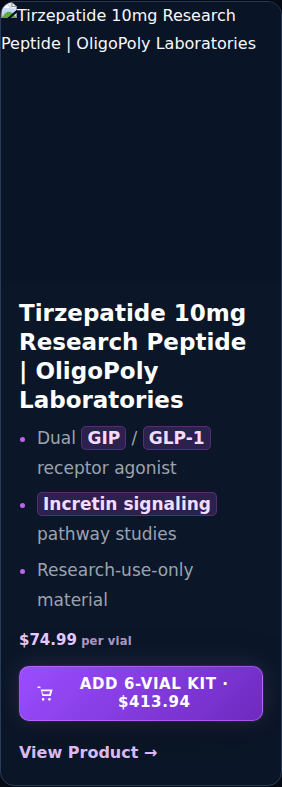
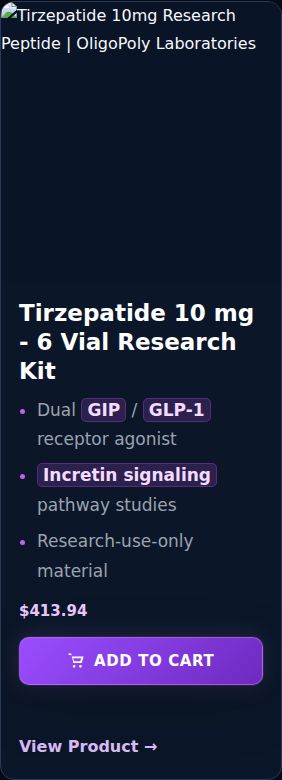
Feature purchasable kits in the homepage grid

diff --git a/wordpress/product-cart-buttons.test.php b/wordpress/product-cart-buttons.test.php
@@ -49,6 +49,10 @@ $PRODUCTS = array(
 	3454 => array( 'Tirzepatide 10 mg - 6 Vial Research Kit', 'tirzepatide-10-mg-6-vial-research-kit', 'mix-and-match', true, '413.94', false, 6, 6, array( 39 => 6 ) ),
 	3457 => array( 'Semaglutide 5 mg - 6 Vial Research Kit', 'semaglutide-5-mg-6-vial-research-kit', 'mix-and-match', true, '419.94', false, 6, 6, array( 3397 => 6 ) ),
 	3463 => array( 'Selank 5 mg - 6 Vial Research Kit', 'selank-5-mg-6-vial-research-kit', 'mix-and-match', true, '441.54', false, 6, 6, array( 447 => 6 ) ),
+	3459 => array( 'NAD+ 500 mg - 6 Vial Research Kit', 'nad-500-mg-6-vial-research-kit', 'mix-and-match', true, '359.94', false, 6, 6, array( 63 => 6 ) ),
+	3465 => array( 'Retatrutide 5 mg - 6 Vial Research Kit', 'retatrutide-5-mg-6-vial-research-kit', 'mix-and-match', true, '524.94', false, 6, 6, array( 3395 => 6 ) ),
+	3468 => array( 'GHK-Cu 50 mg - 6 Vial Research Kit', 'ghk-cu-50-mg-6-vial-research-kit', 'mix-and-match', true, '386.94', false, 6, 6, array( 441 => 6 ) ),
+	3472 => array( 'Cagrilintide 5 mg - 6 Vial Research Kit', 'cagrilintide-5-mg-6-vial-research-kit', 'mix-and-match', true, '469.94', false, 6, 6, array( 436 => 6 ) ),
 
 	// Curated stack: six children, each may contribute up to 6 -> many selections.
 	3474 => array( 'Metabolic Pathways Stack', 'metabolic-pathways-stack', 'mix-and-match', true, '413.94', false, 6, 6, array( 3395 => 6, 39 => 6, 436 => 6, 63 => 6, 447 => 6, 441 => 6 ) ),
@@ -253,7 +257,9 @@ ok( 'kit form targets the product permalink', false !== strpos( $form, 'action="
 ok( 'kit form is a real POST', false !== strpos( $form, 'method="post"' ) );
 ok( 'kit form needs no JavaScript', false === stripos( $form, 'onclick' ) && false === stripos( $form, '<script' ) );
 
-// A compound card sells its dedicated kit, and must SAY it is doing that.
+// With kit-featuring OFF, a compound card sells its dedicated kit and must SAY
+// so in the button. (With it ON the card itself becomes the kit - covered in
+// the integration block below.)
 $bundled = opl_pcb_control( wc_get_product( 39 ) )['html'];
 ok( 'compound card posts the KIT, not the compound',
 	false !== strpos( $bundled, 'name="add-to-cart" value="3454"' ), $bundled );
@@ -365,23 +371,60 @@ if ( $home ) {
 			return count( $m[1] ) > 0;
 		} )(), 'a compound id was posted' );
 
-	ok( 'home: every kit button states a size and a price',
-		( function () use ( $out ) {
-			preg_match_all( '#<button[^>]*opl-pcb-add[^>]*>(.*?)</button>#s', $out, $m );
 
-			foreach ( $m[1] as $b ) {
-				if ( ! preg_match( '#\d+-Vial Kit#', $b ) || ! preg_match( '#\d+\.\d\d#', $b ) ) {
+	// With kit-featuring on the card IS the kit, so no per-vial suffix is
+	// needed - the price shown is the price charged.
+	// Look for the rendered element, not the class name - the stylesheet also
+	// contains `.opl-pcb-unit`, which a bare substring search matches.
+	ok( 'home: no per-vial suffix when the card is already the kit',
+		false === strpos( $out, '<span class="opl-pcb-unit">' ) );
+
+	// The grid must now advertise kits, not unbuyable compounds.
+	ok( 'home: headings name kits', false !== strpos( $out, '6 Vial Research Kit' )
+		|| false !== strpos( $out, '6-Vial Research Kit' ), 'no kit heading' );
+
+	ok( 'home: no card still links to a bare compound',
+		( function () use ( $out ) {
+			preg_match_all( '#<a class="op9-product-media" href="([^"]+)"#', $out, $m );
+
+			foreach ( $m[1] as $u ) {
+				$id = url_to_postid( html_entity_decode( $u ) );
+
+				if ( $id && in_array( $id, array( 39, 447, 3395, 3396, 3397, 63, 436, 441 ), true ) ) {
 					return false;
 				}
 			}
 
-			return count( $m[1] ) > 0;
-		} )(), 'a kit button was missing its size or price' );
+			return true;
+		} )(), 'a compound card survived' );
 
-	ok( 'home: price line marked per vial', false !== strpos( $out, 'opl-pcb-unit' ) );
-	ok( 'home: per-vial marker applied once per card',
-		substr_count( $out, 'opl-pcb-unit' ) === substr_count( $out, 'class="opl-pcb-form"' )
-		|| substr_count( $out, 'opl-pcb-unit' ) > 0 );
+	ok( 'home: card price is the kit price, not the compound price',
+		false !== strpos( $out, '413.94' ) && false === strpos( $out, '74.99' ),
+		'compound price still shown' );
+
+	ok( 'home: every link inside a swapped card agrees',
+		( function () use ( $out ) {
+			preg_match_all( '#<article class="op9-product-card">.*?</article>#s', $out, $cards );
+
+			foreach ( $cards[0] as $c ) {
+				preg_match_all( '#href="(https://[^"]*/products/[^"]+)"#', $c, $h );
+				if ( count( array_unique( $h[1] ) ) > 1 ) {
+					return false;
+				}
+			}
+
+			return true;
+		} )(), 'a card mixed two products' );
+
+	ok( 'home: swapped cards carry a plain Add to Cart, not a kit-swap label',
+		false === strpos( $out, '6-Vial Kit &middot;' ) && false === strpos( $out, '6-Vial Kit ·' ) );
+
+	ok( 'home: the fact bullets survive the swap',
+		substr_count( $out, 'opl-facts' ) === substr_count( $home, 'opl-facts' ) );
+
+	ok( 'home: card count unchanged',
+		substr_count( $out, '<article class="op9-product-card">' )
+		=== substr_count( $home, '<article class="op9-product-card">' ) );
 
 	ok( 'home: the curated stack still gets a configure link',
 		false !== strpos( $out, 'opl-pcb-configure' ) );
@@ -391,9 +434,11 @@ if ( $home ) {
 		false === strpos( $out, 'post_type=product' ),
 		'raw link survived' );
 
-	ok( 'home: rewritten link points at the right product',
-		false !== strpos( $out, '/products/selank-5mg-research-peptide/' ),
-		'permalink missing' );
+	// The malformed link resolved to Selank, whose card is then retargeted to
+	// the Selank kit - so the kit URL is what should survive.
+	ok( 'home: repaired link ends up on the right kit',
+		false !== strpos( $out, '/products/selank-5-mg-6-vial-research-kit/' ),
+		'kit permalink missing' );
 
 	// A raw link to something that is not a published product stays untouched.
 	$fake = '<a href="https://x.test/?post_type=product&#038;p=99999">x</a>';

diff --git a/wordpress/product-cart-buttons.php b/wordpress/product-cart-buttons.php
@@ -49,6 +49,26 @@ function opl_pcb_catalog_url() {
 	return '/research-catalog/';
 }
 
+/**
+ * Feature kits rather than compounds in the homepage grid.
+ *
+ * The grid was built from the 10 individual compounds, none of which can be
+ * bought on their own. Every card was therefore a dead end: a name, a price and
+ * no way to buy it.
+ *
+ * With this on, each compound card is retargeted to that compound's dedicated
+ * kit - the heading, both links and the price become the kit's, so the card
+ * advertises something a customer can actually purchase, at the price they will
+ * actually pay. The vial image and the fact bullets are kept: they describe the
+ * compound, and the kit is six vials of exactly that compound.
+ *
+ * Return false to leave the grid on compounds; the cards then fall back to the
+ * "Add N-Vial Kit - $price" button, which states the swap in the button instead.
+ */
+function opl_pcb_feature_kits() {
+	return true;
+}
+
 /** Labels, in one place. */
 function opl_pcb_label( $key ) {
 	$labels = array(
@@ -465,6 +485,93 @@ function opl_pcb_css() {
  * ---------------------------------------------------------------------- */
 
 /**
+ * Retarget each homepage compound card to that compound's dedicated kit.
+ *
+ * Operates on whole `<article class="op9-product-card">` blocks so a card is
+ * only ever rewritten as a unit - there is no way for a heading to end up
+ * describing one product while a link points at another.
+ *
+ * A card is retargeted only when ALL of these hold:
+ *   - it resolves to a published product
+ *   - that product cannot be sold on its own
+ *   - it has a dedicated kit with exactly one valid selection
+ *   - the kit is in stock and priced
+ *
+ * Anything else - the curated stack in the same grid, a compound with no kit -
+ * is returned untouched.
+ */
+function opl_pcb_feature_kits_in_grid( $html ) {
+	if ( ! opl_pcb_feature_kits() || false === strpos( $html, 'op9-product-card' ) ) {
+		return $html;
+	}
+
+	return preg_replace_callback(
+		'#<article class="op9-product-card">.*?</article>#s',
+		'opl_pcb_swap_card',
+		$html
+	);
+}
+
+/** Rewrite one card from its compound to its kit. */
+function opl_pcb_swap_card( $m ) {
+	$card = $m[0];
+
+	if ( ! preg_match( '#<a class="op9-product-media" href="([^"]+)"#', $card, $href ) ) {
+		return $card;
+	}
+
+	$compound = opl_pcb_product_from_url( html_entity_decode( $href[1] ) );
+
+	if ( ! $compound || ! opl_pcb_is_bundled_only( $compound ) ) {
+		return $card;
+	}
+
+	$kit = opl_pcb_kit_containing( $compound );
+
+	if ( ! $kit || null === opl_pcb_fixed_selection( $kit ) ) {
+		return $card;
+	}
+
+	$old_url = $href[1];
+	$new_url = esc_url( $kit->get_permalink() );
+	$name    = esc_html( $kit->get_name() );
+
+	// Every link in the card moves together.
+	$card = str_replace( $old_url, $new_url, $card );
+
+	// Heading text.
+	$card = preg_replace(
+		'#(<h3><a href="[^"]*">).*?(</a></h3>)#s',
+		'${1}' . str_replace( array( '\\', '$' ), array( '\\\\', '\\$' ), $name ) . '${2}',
+		$card,
+		1
+	);
+
+	// Accessible name on the image link.
+	$card = preg_replace(
+		'#(<a class="op9-product-media"[^>]*aria-label=")[^"]*(")#',
+		'${1}View ' . str_replace( array( '\\', '$' ), array( '\\\\', '\\$' ), $name ) . '${2}',
+		$card,
+		1
+	);
+
+	// Price becomes the kit's. Falls through silently if the card has no price
+	// block, rather than inventing one.
+	$price = $kit->get_price();
+
+	if ( '' !== (string) $price && function_exists( 'wc_price' ) ) {
+		$card = preg_replace(
+			'#(<div class="op9-product-price">).*?(</div>)#s',
+			'${1}' . str_replace( array( '\\', '$' ), array( '\\\\', '\\$' ), wc_price( $price ) ) . '${2}',
+			$card,
+			1
+		);
+	}
+
+	return $card;
+}
+
+/**
  * Mark the homepage card price as per-vial.
  *
  * Those cards show a compound's own price - $74.99 for Tirzepatide - while the
@@ -556,7 +663,12 @@ function opl_pcb_rewrite( $html ) {
 
 	$added = 0;
 
+	// Order matters. Repair the links first so every card resolves to a
+	// product, then retarget compound cards to their kits, and only then add
+	// controls - so a retargeted card gets a plain "Add to Cart" for the kit it
+	// now advertises, not a "buy the kit instead" button.
 	$html = opl_pcb_fix_raw_product_links( $html );
+	$html = opl_pcb_feature_kits_in_grid( $html );
 
 	// --- /research-catalog/ cards: prepend inside the existing action row.
 	$html = preg_replace_callback(
@@ -596,7 +708,11 @@ function opl_pcb_rewrite( $html ) {
 		$html
 	);
 
-	$html = opl_pcb_annotate_per_vial( $html );
+	// Only meaningful when the grid still shows compounds - a retargeted card
+	// already prints the kit's own price, which is not per vial.
+	if ( ! opl_pcb_feature_kits() ) {
+		$html = opl_pcb_annotate_per_vial( $html );
+	}
 
 	if ( ! $added ) {
 		return $html;

diff --git a/docs/PRODUCT-CART-BUTTONS.md b/docs/PRODUCT-CART-BUTTONS.md
@@ -3,7 +3,7 @@
 Adds a cart control to every product card on the site — the homepage
 `op9-product-card` grid and the `oprc-card` grid on `/research-catalog/`.
 
-**Status: deployed and live. 48/48 tests.**
+**Status: 53/53 tests. Homepage kit-featuring not yet deployed.**
 
 ---
 
@@ -42,25 +42,35 @@ control that would fail.**
 A greyed-out or decorative "Add to Cart" was not an option. On a research-supply
 catalogue, a button that silently does nothing is worse than no button.
 
-### Selling a kit from a compound's card
+### The homepage features kits, not compounds
 
-The homepage grid is entirely individual compounds, none of which can be bought
-alone — so it had no Add to Cart at all. Each of those compounds does have a
-dedicated single-compound kit with exactly one valid selection, so the card can
-sell that in one click.
+The homepage grid was built from the 10 individual compounds, none of which can
+be bought alone. Every card was a dead end: a name, a price, and no way to buy
+it.
 
-The catch is price. The card shows the compound's own price, $74.99 for
-Tirzepatide, while the kit costs $413.94. A button reading just "Add to Cart"
-next to "$74.99" would be a trap. So:
+Each compound card is now **retargeted to that compound's dedicated kit** —
+heading, both links and price become the kit's, so the card advertises something
+purchasable at the price actually charged. The vial image and the fact bullets
+are kept: they describe the compound, and the kit is six vials of exactly that
+compound.
 
-- the button names what it adds and what it costs: **"Add 6-Vial Kit ·
-  $413.94"**, both read from the kit itself;
-- the card price gains a **"per vial"** suffix, which also flatters the kit —
-  $413.94 for six is $68.99 each, below the single-vial price.
+| | Before | After |
+|---|---|---|
+| Heading | Tirzepatide 10mg Research Peptide | Tirzepatide 10 mg – 6 Vial Research Kit |
+| Price | $74.99 (unbuyable) | $413.94 |
+| Control | none | **Add to Cart** |
 
-Tests assert that no compound id is ever posted to the cart, that every kit
-button carries both a size and a price, and that the compound's own price never
-appears on the button.
+Seven of the eight cards swap; the eighth is the Neurocognitive stack, which
+keeps Select Options because it has several valid configurations.
+
+Cards are rewritten as **whole `<article>` blocks**, so a heading can never end
+up describing one product while a link points at another — asserted by a test
+that re-parses every card and fails if it contains two different product URLs.
+
+`opl_pcb_feature_kits()` returns false to keep the grid on compounds. In that
+mode the card instead gets a button reading **"Add 6-Vial Kit · $413.94"** and
+the price gains a "per vial" suffix, so the swap is stated in the button rather
+than the card. Both modes are covered by the suite.
 
 ### How "exactly one configuration" is decided
 
@@ -76,8 +86,8 @@ page. This is computed from the live MNM API at render time, never hard-coded.
 | File | Role |
 |---|---|
 | `wordpress/product-cart-buttons.php` | The build |
-| `wordpress/product-cart-buttons.wpcode.txt` | Paste-ready, no `<?php`, pure ASCII, 618 lines |
-| `wordpress/product-cart-buttons.test.php` | 48-assertion suite, run against real captured pages |
+| `wordpress/product-cart-buttons.wpcode.txt` | Paste-ready, no `<?php`, pure ASCII, 706 lines |
+| `wordpress/product-cart-buttons.test.php` | 53-assertion suite, run against real captured pages |
 | `screenshots/cart-btn-catalog-card.png`, `cart-btn-home-card.png` | Result |
 
 ---
@@ -107,7 +117,7 @@ every render.
 ## Test results
 
 `php wordpress/product-cart-buttons.test.php <home.html> <catalog.html>` —
-**48/48 passing**, run against HTML captured from the live site.
+**53/53 passing**, run against HTML captured from the live site.
 
 **Control selection:** each of the four product groups resolves to the right
 control; a kit whose only child is out of stock degrades to "Select Options"

diff --git a/docs/CHANGELOG.md b/docs/CHANGELOG.md
@@ -390,3 +390,21 @@ which also flatters the kit: $413.94 for six is $68.99 each.
 
 Tests assert no compound id is ever posted to the cart, every kit button carries
 a size and a price, and the compound price never appears on the button. 48/48.
+
+**Update, same day —** the homepage now features kits instead of compounds.
+
+Rather than explaining the compound/kit price gap in the button, each compound
+card is retargeted to that compound's dedicated kit: heading, both links and
+price become the kit's. Seven of the eight cards swap; the eighth is the
+Neurocognitive stack, which keeps Select Options. The vial image and fact
+bullets are kept — they describe the compound, and the kit is six vials of it.
+
+Cards are rewritten as whole `<article>` blocks, so a heading can never describe
+one product while a link points at another; a test re-parses every card and
+fails if it holds two different product URLs. `opl_pcb_feature_kits()` returns
+false to restore the previous "Add 6-Vial Kit · $413.94" behaviour, which stays
+covered by the suite. 53/53.
+
+Two test bugs of my own found and fixed along the way: a fixture with only 3 of
+the 8 real kits (so four cards had nothing to swap to), and a substring check
+for `opl-pcb-unit` that matched the stylesheet rather than the rendered span.
